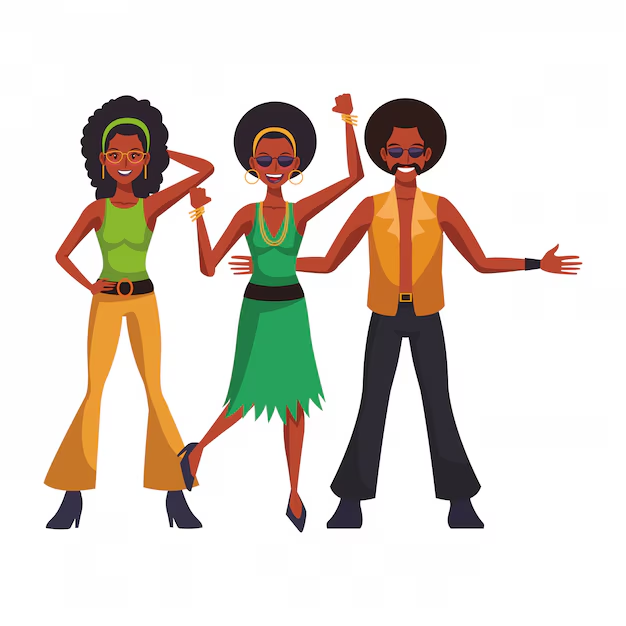
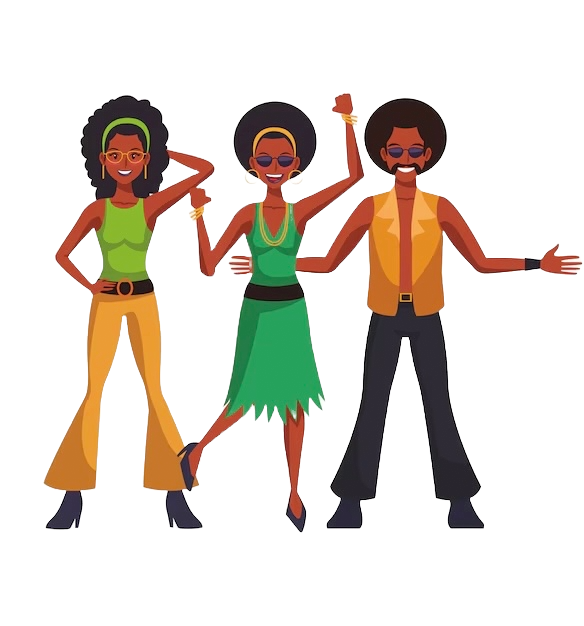
home page image update

Changed region(s): [[0.0616, 0.1518, 1.0, 0.8498]]

diff --git a/src/pages/index.js b/src/pages/index.js
@@ -328,8 +328,8 @@ export default function Home() {
           <motion.div className={styles.downloadImage} variants={fadeInUp}>
             <Image
               src="/onBoarding2.png"
-              width={500}
-              height={400}
+              width={400}
+              height={500}
             />
           </motion.div>
         </motion.section>
